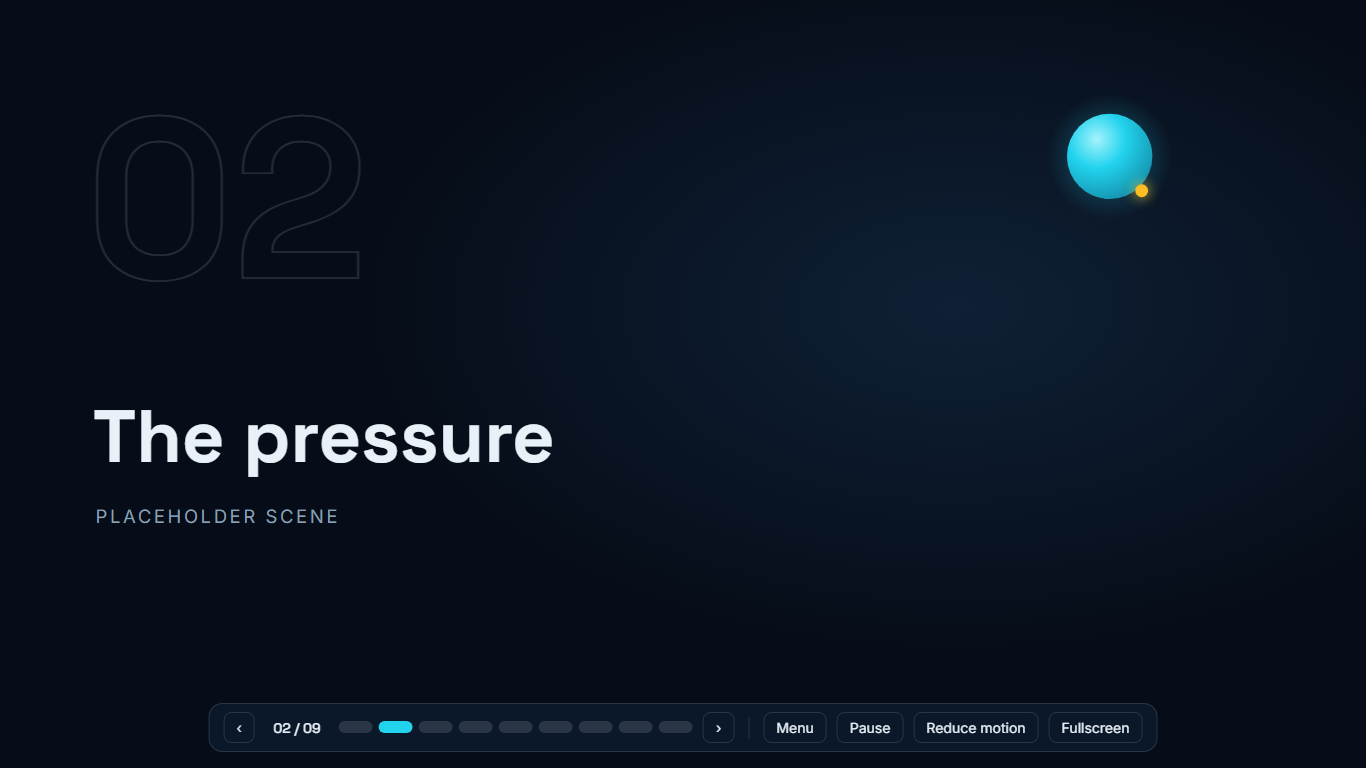
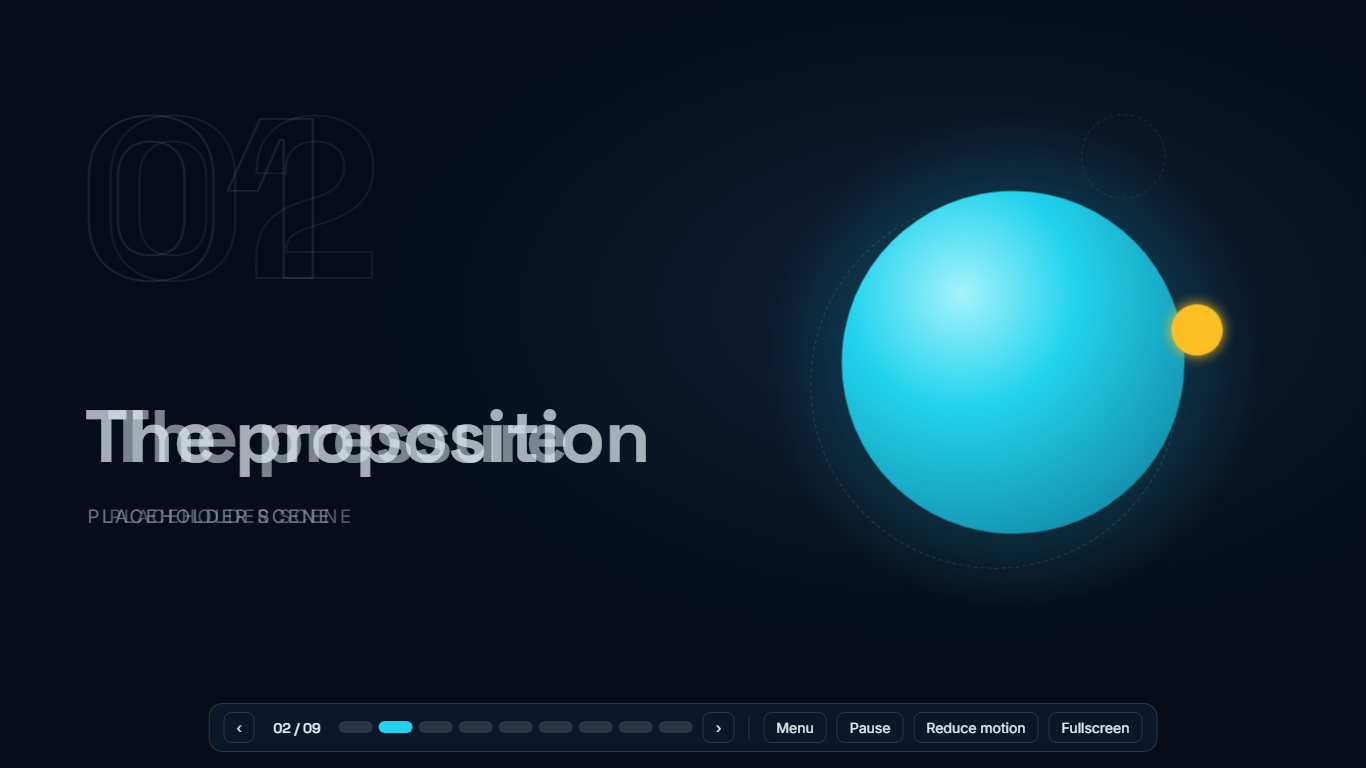
perf(nav): faster standard transition; progress and hash follow the request immediately
Timing constants live in src/core/timing.js. Standard transition now 0.55 s with the Core moving in parallel (0.6 s).

Changed region(s): [[0.6149, 0.125, 0.9224, 0.7188], [0.0615, 0.5312, 0.4919, 0.625], [0.0615, 0.6562, 0.246, 0.6875]]

diff --git a/tests/e2e/foundation.spec.js b/tests/e2e/foundation.spec.js
@@ -25,7 +25,7 @@ test.afterEach(() => {
 const counter = (page) => page.locator('#counter');
 const label = (n) => `${String(n).padStart(2, '0')} / 09`;
 
-// Settled = counter shows the target AND exactly one scene is fully visible.
+// Settled = counter shows the target AND exactly one scene is fully visible AND the Core is on its anchor.
 async function expectScene(page, n) {
   await expect(counter(page)).toHaveText(label(n));
   await page.waitForFunction(() => {
@@ -33,7 +33,11 @@ async function expectScene(page, n) {
       const cs = getComputedStyle(s);
       return cs.visibility === 'visible' && Number(cs.opacity) > 0.5;
     });
-    return visible.length === 1 && Number(getComputedStyle(visible[0]).opacity) > 0.99 && !document.getElementById('preloader');
+    if (visible.length !== 1 || Number(getComputedStyle(visible[0]).opacity) <= 0.99 || document.getElementById('preloader')) return false;
+    // The counter now updates on the request, so "settled" also means the Core has arrived.
+    const c = document.getElementById('core').getBoundingClientRect();
+    const a = visible[0].querySelector('[data-core-anchor]').getBoundingClientRect();
+    return Math.hypot(c.left + c.width / 2 - (a.left + a.width / 2), c.top + c.height / 2 - (a.top + a.height / 2)) < 3;
   });
 }
 
@@ -165,6 +169,35 @@ test('pause and reduced motion stop the Core orbit loop; navigation still works'
   await expectScene(page, 3);
   await page.keyboard.press('r');
   await expect(page.locator('#chip-reduced')).toBeHidden();
+});
+
+test('Next updates progress at once and a standard transition finishes in under 0.8 s', async ({ page }) => {
+  await open(page);
+  await expectScene(page, 1);
+  // Measured inside the page (no Playwright round-trips): click Next, then time until the new scene is
+  // fully opaque, the old one hidden and the Core sits on the new anchor.
+  const r = await page.evaluate(() => new Promise((resolve) => {
+    const t0 = performance.now();
+    document.getElementById('btn-next').click();
+    const immediate = {
+      counter: document.getElementById('counter').textContent,
+      hash: location.hash,
+      current: document.querySelectorAll('#progress [aria-current="step"]').length,
+      second: document.querySelector('#progress li:nth-child(2) button').getAttribute('aria-current'),
+    };
+    const next = document.querySelector('.scene[data-scene="pressure"]');
+    const center = (el) => { const b = el.getBoundingClientRect(); return [b.left + b.width / 2, b.top + b.height / 2]; };
+    const done = () => {
+      const [cx, cy] = center(document.getElementById('core'));
+      const [ax, ay] = center(next.querySelector('[data-core-anchor]'));
+      return Number(getComputedStyle(next).opacity) > 0.99 && Math.hypot(cx - ax, cy - ay) < 3;
+    };
+    const poll = () => (done() ? resolve({ ms: performance.now() - t0, immediate }) : requestAnimationFrame(poll));
+    poll();
+  }));
+  expect(r.immediate).toEqual({ counter: '02 / 09', hash: '#/scene-2', current: 1, second: 'step' });
+  expect(r.ms).toBeLessThan(800);
+  console.log(`standard transition: ${Math.round(r.ms)} ms`);
 });
 
 test('no auto-advance', async ({ page }) => {

diff --git a/src/core/controller.js b/src/core/controller.js
@@ -4,6 +4,7 @@
 //  - one transition at a time; a request made during a transition is stored in `pending`, last one wins
 //  - next()/prev() are relative to the DESTINATION (pending ?? inFlight ?? index), so rapid key presses accumulate
 //  - try/finally releases `busy` even if a timeline throws
+//  - the UI (store.sceneIndex, hash) follows the REQUEST immediately; `index` is only what is committed on screen
 //  - while paused, GSAP's clock is stopped, so a transition is jumped to its end instead of hanging
 export function createController({ scenes, transitions, store, core, onChange = () => {} }) {
   let index = -1;
@@ -27,15 +28,21 @@ export function createController({ scenes, transitions, store, core, onChange = 
     commit();
   }
 
+  // Progress bar, counter and URL hash follow the request at once, not the end of the transition.
+  function announce(target) {
+    store.set({ sceneIndex: target });
+    onChange(target);
+  }
+
   function commit() {
-    store.set({ sceneIndex: index });
-    onChange(index);
+    announce(index);
   }
 
   async function goTo(target) {
     target = clamp(target);
     if (busy) {
       pending = target;
+      announce(target);
       // A frozen (paused) transition would never finish on its own: finish it so the queue can drain.
       if (store.get().paused) activeTl?.progress(1);
       return;
@@ -44,6 +51,7 @@ export function createController({ scenes, transitions, store, core, onChange = 
 
     busy = true;
     inFlight = target;
+    announce(target);
     const from = scenes[index];
     const to = scenes[target];
     const dir = target > index ? 1 : -1;
@@ -55,7 +63,6 @@ export function createController({ scenes, transitions, store, core, onChange = 
       from.deactivate();
       index = target;
       to.activate();
-      commit();
     } finally {
       busy = false;
       inFlight = null;

diff --git a/tests/unit/controller.test.js b/tests/unit/controller.test.js
@@ -31,9 +31,10 @@ function setup({ paused = false, throwOnce = false } = {}) {
 
   const store = createStore({ sceneIndex: 0, paused, reducedMotion: false });
   const core = { snapTo() {}, moveTo() {} };
-  const controller = createController({ scenes, transitions, store, core });
+  const changes = [];
+  const controller = createController({ scenes, transitions, store, core, onChange: (i) => changes.push(i) });
   const finish = async () => { pendingFinish.shift()?.(); await new Promise((r) => setTimeout(r, 0)); };
-  return { controller, store, log, finish };
+  return { controller, store, log, finish, changes };
 }
 
 const tick = () => new Promise((r) => setTimeout(r, 0));
@@ -48,6 +49,22 @@ describe('controller', () => {
     expect(store.get().sceneIndex).toBe(2);
     expect(log.deactivated).toEqual([0]);
     expect(log.activated).toEqual([0, 2]);
+  });
+
+  it('store and hash follow the request immediately, before the transition ends', async () => {
+    const { controller, store, changes, finish } = setup();
+    await controller.start(0);
+    changes.length = 0;
+    controller.goTo(2);
+    expect(store.get().sceneIndex).toBe(2);       // synchronous: progress bar/counter update now
+    expect(changes).toEqual([2]);                 // hash update now
+    expect(controller.index).toBe(0);             // scene on screen is still the old one
+    controller.goTo(4);                           // queued request also shows immediately
+    expect(store.get().sceneIndex).toBe(4);
+    await finish();
+    await finish();
+    expect(controller.index).toBe(4);
+    expect(store.get().sceneIndex).toBe(4);
   });
 
   it('clamps to the valid range and ignores the current scene', async () => {

diff --git a/src/ui/placeholder.js b/src/ui/placeholder.js
@@ -1,4 +1,5 @@
 import { gsap } from 'gsap';
+import { STANDARD } from '../core/timing.js';
 
 // Placeholder scene factory (slice 1 only). Each real scene replaces its own folder's index.js later.
 // It implements the full scene contract so the controller is exercised exactly as it will be with real art.
@@ -23,18 +24,18 @@ export function createPlaceholderScene({ number, id, title, anchor }) {
       el.querySelector('.ph-title').textContent = title;   // textContent: titles may contain '&'
     },
 
-    // Choreography: scene slides in 40px from the travel direction while fading (crossfade only if reduced).
+    // Choreography: scene slides in from the travel direction while fading (crossfade only if reduced).
     enter(dir) {
       const reduced = ctx.store.get().reducedMotion;
       return gsap.timeline().fromTo(
         el,
-        { autoAlpha: 0, x: reduced ? 0 : 40 * dir },
-        { autoAlpha: 1, x: 0, duration: reduced ? 0.2 : 0.6, ease: 'power2.out' },
+        { autoAlpha: 0, x: reduced ? 0 : STANDARD.slide * dir },
+        { autoAlpha: 1, x: 0, duration: reduced ? STANDARD.reduced : STANDARD.enter, ease: 'power2.out' },
       );
     },
     exit(dir) {
       const reduced = ctx.store.get().reducedMotion;
-      return gsap.to(el, { autoAlpha: 0, x: reduced ? 0 : -40 * dir, duration: reduced ? 0.2 : 0.4, ease: 'power2.in' });
+      return gsap.to(el, { autoAlpha: 0, x: reduced ? 0 : -STANDARD.slide * dir, duration: reduced ? STANDARD.reduced : STANDARD.exit, ease: 'power2.in' });
     },
 
     activate() {},     // real scenes start loops / listeners here, through ctx.motion

diff --git a/src/core/transitions.js b/src/core/transitions.js
@@ -1,18 +1,19 @@
 import { gsap } from 'gsap';
+import { STANDARD } from './timing.js';
 
 // A transition builds ONE timeline that coordinates the outgoing scene, the Core and the incoming scene.
 // The controller plays it and waits for it. Composed transitions (A, B, C) are added to this map later,
 // keyed 'from>to' (e.g. '0>1'); anything without an entry uses `standard`.
 export const transitions = {
-  // Choreography: outgoing scene slides away while fading; the Core starts travelling at the same moment;
-  // the incoming scene arrives 0.15s later so the two overlap instead of leaving a black gap.
-  // Reduced motion: scenes only cross-fade (no slide) and the Core moves in 0.2s.
+  // Choreography (all times from timing.js): outgoing scene leaves and the Core starts travelling at t=0;
+  // the incoming scene starts `enterDelay` later, so the two overlap instead of leaving a gap.
+  // Total = enterDelay + enter (0.55 s). Reduced motion: cross-fade only, everything starts together.
   standard({ from, to, dir, core, reduced }) {
     const tl = gsap.timeline();
     tl.add(from.exit(dir), 0);
     // Core is created BEFORE to.enter() so it measures the anchor before enter() sets any offset.
-    tl.add(core.moveTo(to, reduced ? { duration: 0.2, ease: 'none' } : {}), 0);
-    tl.add(to.enter(dir), reduced ? 0 : 0.15);
+    tl.add(core.moveTo(to, reduced ? { duration: STANDARD.reduced, ease: 'none' } : { duration: STANDARD.core }), 0);
+    tl.add(to.enter(dir), reduced ? 0 : STANDARD.enterDelay);
     return tl;
   },
 };

diff --git a/src/core/timing.js b/src/core/timing.js
@@ -1,0 +1,11 @@
+// Tuning knobs for the STANDARD transition (seconds). Edit here to retime every scene change at once.
+// Budget for live presenting: enterDelay + enter <= 0.7 s total, core <= 0.6 s, all running in parallel.
+// Composed transitions (A, B, C) define their own, longer timings in transitions.js.
+export const STANDARD = {
+  exit: 0.3,         // outgoing scene slides/fades away
+  enterDelay: 0.1,   // incoming scene starts this long after the outgoing one begins leaving (max 0.15)
+  enter: 0.45,       // incoming scene slides/fades in
+  core: 0.6,         // Core orb travel to the new anchor, starts together with the exit
+  reduced: 0.2,      // reduced motion: everything becomes a cross-fade this long
+  slide: 40,         // px the scenes slide while fading
+};
